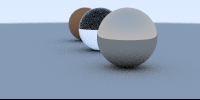
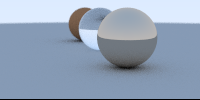
modified vec3 class
modified vec3 to be less verbose, easier to read. removed numpy dependency

diff --git a/PyTrace_Weekend/src/core/geometry.py b/PyTrace_Weekend/src/core/geometry.py
@@ -2,7 +2,7 @@ import numpy as np
 import math
 from typing import Type
 
-class vec3:
+class vec3(object):
     def __init__(self,x0: float, x1: float, x2: float):
         self.x0 = x0
         self.x1 = x1
@@ -32,17 +32,10 @@ class vec3:
     def __mul__(self,other):
         if isinstance(other,vec3):
             return vec3(self.x0 * other.x0, self.x1 * other.x1, self.x2 * other.x2)
-        elif isinstance(other,float) or isinstance(other,int) or isinstance(other,long):
-            return vec3(self.x0 * other, self.x1 * other, self.x2 * other)
         else:
-            assert(False,"cannot multiply vec3 by a non numeric class or non vec3")
-    def __rmul__(self,other):
-        if isinstance(other,vec3):
-            return vec3(self.x0 * other.x0, self.x1 * other.x1, self.x2 * other.x2)
-        elif isinstance(other,float) or isinstance(other,int) or isinstance(other,long):
             return vec3(self.x0 * other, self.x1 * other, self.x2 * other)
-        else:
-            assert(False,"cannot multiply vec3 by a non numeric class or non vec3")
+
+    __rmul__ = __mul__
 
     def __imul__(self,other):
         if isinstance(other,vec3):
@@ -50,33 +43,30 @@ class vec3:
             self.x1 = other.x1 * self.x1
             self.x2 = other.x2 * self.x2
             return self
-        elif isinstance(other,float) or isinstance(other,int) or isinstance(other,long):
+        else:
             self.x0 = self * other
             return self
-        else:
-            assert(False,"cannot multiply vec3 by a non numeric class or non vec3")
     def __truediv__(self,other):
         if isinstance(other,vec3):
             return vec3(self.x0 / other.x0, self.x1 / other.x1, self.x2 / other.x2)
-        elif isinstance(other,float) or isinstance(other,int) or isinstance(other,long):
-            return vec3(self.x0 / other, self.x1 / other, self.x2 / other)
         else:
-            assert(False,"cannot divide vec3 by a non numeric class or non vec3")
+            return vec3(self.x0 / other, self.x1 / other, self.x2 / other)
     def __idiv__(self,other):
         if isinstance(other,vec3):
             self.x0 = self.x0 / other.x0 
             self.x1 = self.x1 / other.x1
             self.x2 = self.x2 / other.x2
             return self
-        elif isinstance(other,float) or isinstance(other,int) or isinstance(other,long):
+        else:
             self = self / other
             return self
-        else: 
-            assert(False,"cannot divide vec3 by a non numeric class or non vec3")
     def __neg__(self):
         return vec3(-self.x0,-self.x1,-self.x2)
     def __eq__(self,other):
-        return ((self.x0 == other.x0) and (self.x1 == other.x1) and (self.x2 == other.x2))
+        if not isinstance(other,vec3):
+            return False
+        else:
+            return ((self.x0 == other.x0) and (self.x1 == other.x1) and (self.x2 == other.x2))
     def __ne__(self,other):
         return not(self == other)
     def __pow__(self,other: float):
@@ -88,7 +78,7 @@ class vec3:
         return self
     def __getitem__(self,key):
         #assert( (key <= 2 and key >= 0), "key values must be between 0 and 2")
-        if key == 0:
+        if   key == 0:
             return self.x0
         elif key == 1:
             return self.x1
@@ -96,7 +86,7 @@ class vec3:
             return self.x2
     def __setitem__(self,key,value):
         #assert( (key <= 2 and key >= 0), "key values must be between 0 and 2")
-        if key == 0:
+        if  key == 0:
             self.x0 = value
         elif key == 1: 
             self.x1 = value
@@ -104,7 +94,7 @@ class vec3:
             self.x2 = value
 
     def length(self):
-        return np.sqrt(self.x0 * self.x0 + self.x1 * self.x1 + self.x2 * self.x2)
+        return math.sqrt(self.x0 * self.x0 + self.x1 * self.x1 + self.x2 * self.x2)
     def squared_length(self):
         return self.x0 * self.x0 + self.x1 * self.x1 + self.x2 * self.x2
     def dot(self,other):

diff --git a/PyTrace_Weekend/main.py b/PyTrace_Weekend/main.py
@@ -18,7 +18,7 @@ MAX_FLOAT = sys.float_info.max
 
 
 
-def color(r: ray, world: list,depth = 0,max_depth = 2):
+def color(r: ray, world: list,depth = 0,max_depth = 4):
     rec = hit_record()
     hit_anything,rec = iterate_hit_list(r,0.001,MAX_FLOAT,world)
     if (hit_anything):
@@ -63,11 +63,11 @@ def random_scene():
     hit_object_list.append(sphere( vec3(4, 1, 0), 1.0, metal(vec3(0.7,0.6,0.5),0.0)))
     return hit_object_list
 
-def main(filename: str,output_res: tuple):
+def main(filename: str,output_res: tuple,num_samples):
     f = open(filename + '.ppm','w')
     nx = output_res[0];
     ny = output_res[1];
-    num_samples = 100
+    num_samples = num_samples
 
     output = np.zeros((nx,ny,3))
 
@@ -113,5 +113,5 @@ def main(filename: str,output_res: tuple):
     #f.close()
 
 if  __name__ == "__main__":
-    main("test",(200,100))
+    main("test",(200,100,100))
 

diff --git a/PyTrace_Weekend/src/core/geometry_test.py b/PyTrace_Weekend/src/core/geometry_test.py
@@ -62,6 +62,16 @@ def vec3_basic_mult_test():
 	else:
 		print("failed\n")
 		return 0 
+def vec3_basic_rmult_test():
+	print("vec3_basic_rmult_test")
+	a = vec3(1,2,3)
+	b = vec3(5,5,5)
+	if a * 5 == a * b and 5 * a == a * b:
+		print("success!\n")
+		return 1
+	else:
+		print("failed\n")
+		return 0 
 def vec3_basic_div_test():
 	print("vec3_basic_div_test")
 	a = vec3(1,2,3)
@@ -179,6 +189,7 @@ if __name__== "__main__":
 	vec3_basic_iadd_test()
 	vec3_basic_isub_test()
 	vec3_basic_mult_test()
+	vec3_basic_rmult_test()
 	vec3_basic_div_test()
 	vec3_basic_idiv_test()
 	vec3_basic_neq_test()
